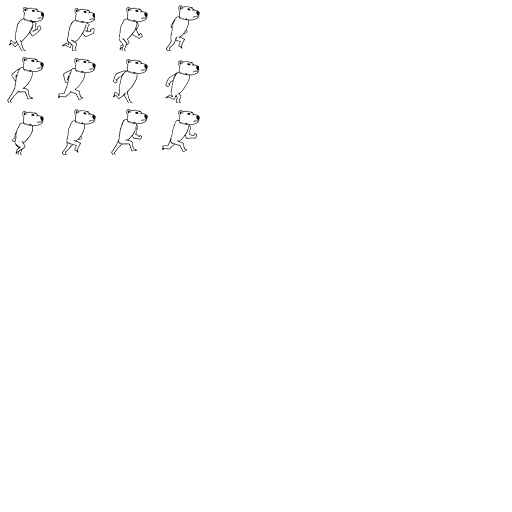
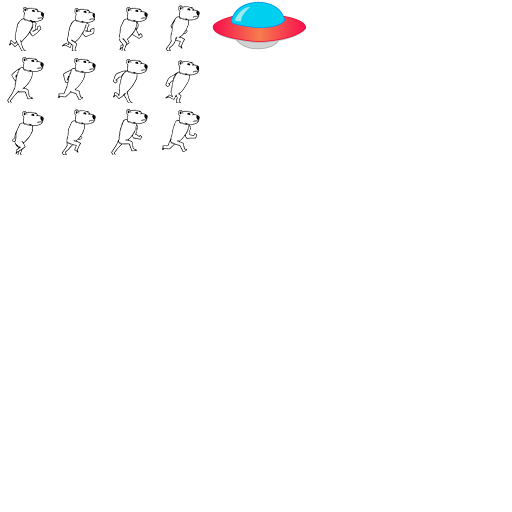
UFO image added to player atlas

Changed region(s): [[0.4062, 0.0, 0.5938, 0.0938]]

diff --git a/src/UFO.cpp b/src/UFO.cpp
@@ -20,9 +20,7 @@ float UFO::getX(){return locX;}
 float UFO::getY(){return locY;}
 
 // Init 
-void UFO::init(){
-
-}
+void UFO::init(){}
 	
 // Load images
 void UFO::load(){
@@ -97,6 +95,6 @@ void UFO::updateInput(KeyHandler* mKeyH, MouseHandler* mMouseH){
 }
 
 // Draw UFO
-void UFO::draw(GLHandler* mgl, GameAtlas* mGame){
-	mGame->draw(mgl, GI_UFO, locX,locY,1.0f,0,originX, originY);
+void UFO::draw(GLHandler* mgl, PlayerAtlas* mGame){
+	mGame->draw(mgl, UFO_FRAME, locX,locY,1.0f,0,originX, originY);
 }

diff --git a/src/Player.cpp b/src/Player.cpp
@@ -296,11 +296,12 @@ void Player::updateInput(KeyHandler* mKeyH, MouseHandler* mMouseH){
 
 // Draw level 
 void Player::draw(GLHandler* mgl, GameAtlas* mGame){
-	ufo->draw(mgl, mGame);
+	playerAtlas.bindTexture(mgl);
+	playerAtlas.bindBuffers(mgl);
+
+	ufo->draw(mgl, &playerAtlas);
 	
 	if (!inUFO){
-		playerAtlas.bindTexture(mgl);
-		playerAtlas.bindBuffers(mgl);
 
 		// Draw player
 		// Player running 

diff --git a/src/UFO.h b/src/UFO.h
@@ -1,7 +1,7 @@
 #pragma once
 #include "Handlers.h"
 #include "GLHandler.h"
-#include "GameAtlas.h"
+#include "PlayerAtlas.h"
 #include "KeyHandler.h"
 #include "MouseHandler.h"
 #include "Camera2D.h"
@@ -51,6 +51,6 @@ public:
 	void updateInput(KeyHandler* mKeyH, MouseHandler* mMouseH);
 
 	// Draw UFO
-	void draw(GLHandler* mgl, GameAtlas* mGame);
+	void draw(GLHandler* mgl, PlayerAtlas* mGame);
 };
 

diff --git a/src/PlayerAtlas.cpp b/src/PlayerAtlas.cpp
@@ -28,6 +28,9 @@ void PlayerAtlas::load(){
 	vcg->addFrame(105,105,50,50);
 	vcg->addFrame(157,105,50,50);
 
+	// UFO
+	vcg->addFrame(209.0f,1.0f,100.0f,50.0f);
+
 	// Grab the arrays 
 	verts = vcg->getVertices();
 	cords = vcg->getCoords();

diff --git a/src/GameAtlas.cpp b/src/GameAtlas.cpp
@@ -13,8 +13,6 @@ void GameAtlas::load(){
 	// Add Game elements to the buffers
 	// Tree
 	vcg->addFrame(1.0f,1.0f,100.0f,100.0f);
-	// UFO
-	vcg->addFrame(1.0f,103.0f,100.0f,50.0f);
 
 	// Grab the arrays 
 	verts = vcg->getVertices();

diff --git a/src/GameAtlas.h b/src/GameAtlas.h
@@ -4,10 +4,8 @@
 #include "VertCordGenerator.h"
 #include "FileHelper.h"
 
-// Game item id's 
-
+// Game item id's
 #define GI_TREE1 0
-#define GI_UFO 1
 
 class GameAtlas : public TextureAtlas
 {

diff --git a/src/PlayerAtlas.h b/src/PlayerAtlas.h
@@ -16,6 +16,7 @@
 #define PLAYER_RUN_FRAME9 9
 #define PLAYER_RUN_FRAME10 10
 #define PLAYER_RUN_FRAME11 11
+#define UFO_FRAME 12
 
 class PlayerAtlas : public TextureAtlas
 {
